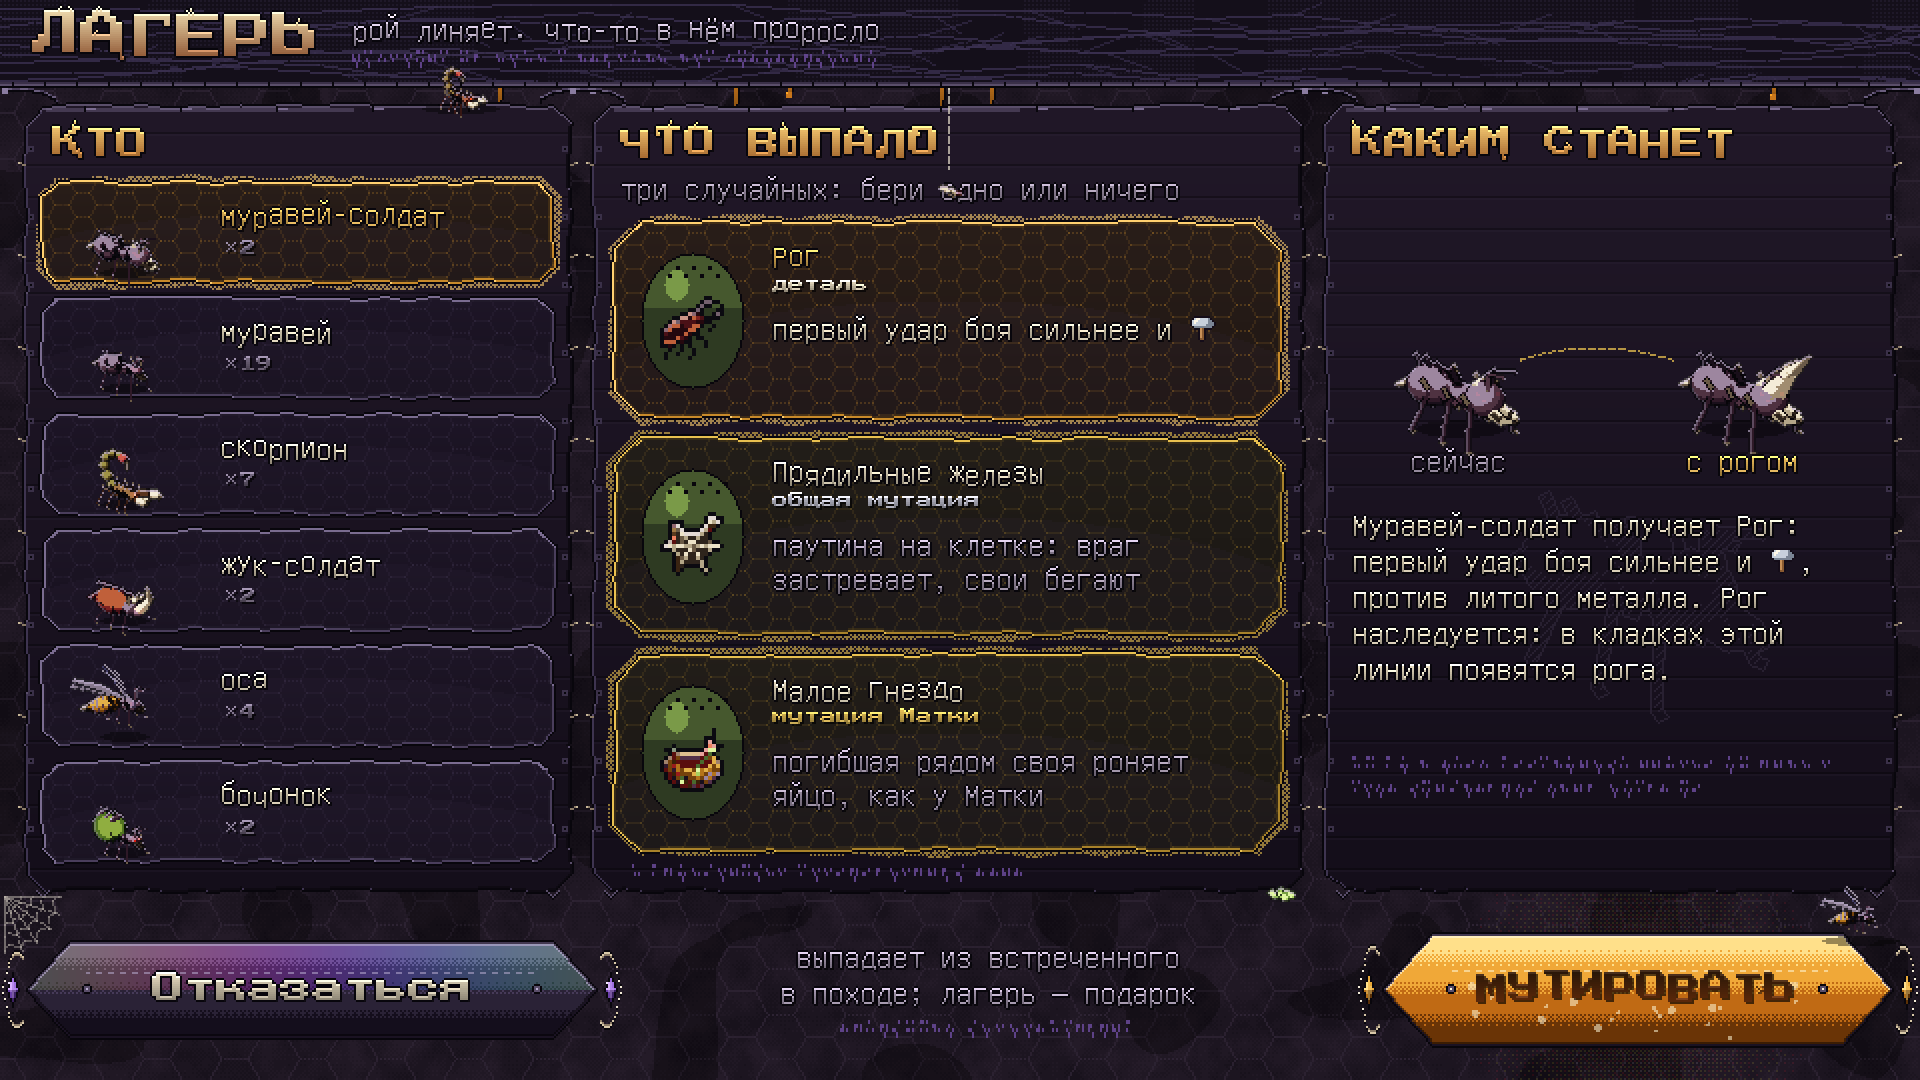
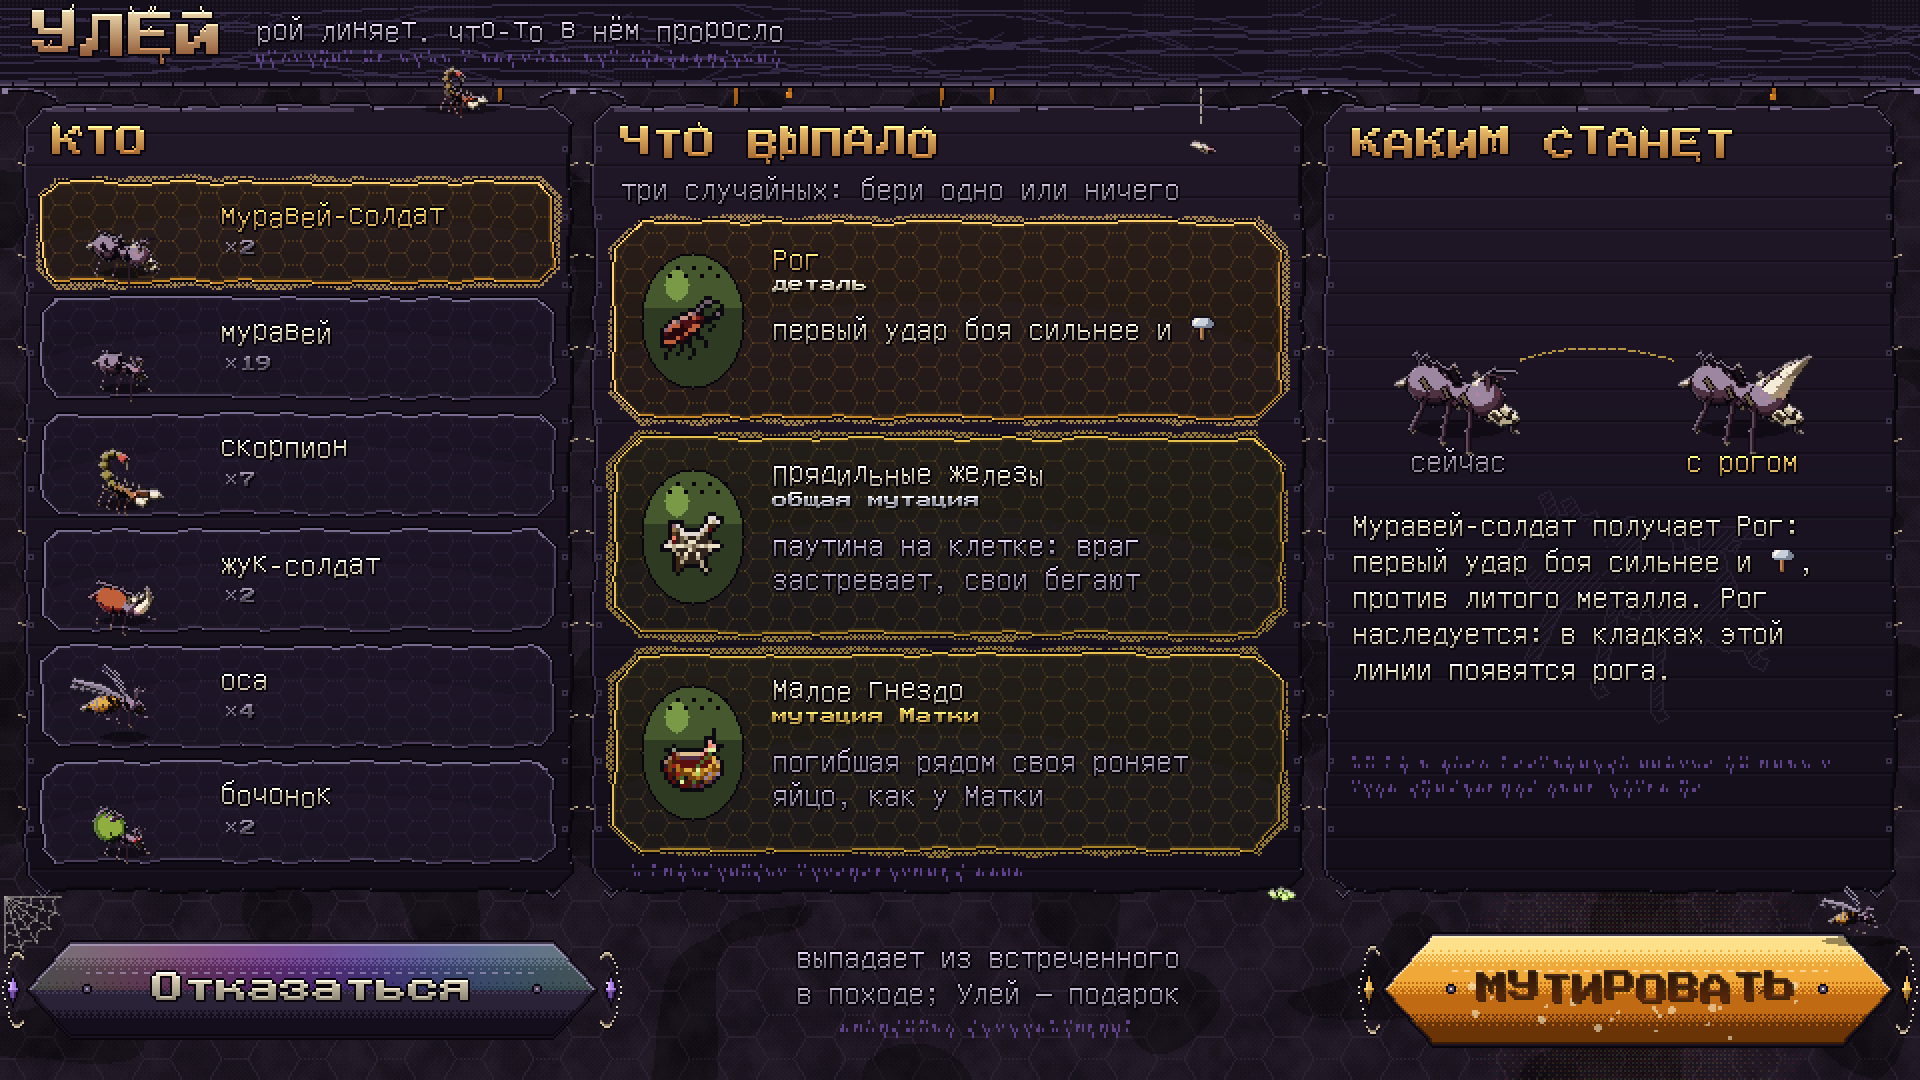
Лагерь роя называется Улей: экран, тексты, концепт
Claude-Session: https://claude.ai/code/session_01Bh6a99SKMjjKSinDnrtssC

diff --git a/tools/sprites/swarm_hud.py b/tools/sprites/swarm_hud.py
@@ -192,7 +192,7 @@ def camp():
     sc = frame_screen(73)
     UI.wing(sc, 0, 0, WW, 44)
     UI.drips(sc, 60, 900, 44, "#b06818", n=6, seed=5)
-    title(sc, "ЛАГЕРЬ", "рой линяет. что-то в нём проросло", seed=21)
+    title(sc, "УЛЕЙ", "рой линяет. что-то в нём проросло", seed=21)
     # who
     UI.plate(sc, 12, 52, 286, 446, antennae=True)
     heading(sc, "КТО", 26, 64, seed=1)
@@ -252,12 +252,12 @@ def camp():
     UI.button(sc, 690, 466, 948, 524, "amber")
     letters(sc, "МУТИРОВАТЬ", 819, 486, "title", 16, col=DARK, col2=(90, 40, 10), outline=False, align="center", jitter=1)
     letters(sc, "выпадает из встреченного", 495, 470, "text", 16, col=MUTED, align="center")
-    letters(sc, "в походе; лагерь — подарок", 495, 488, "text", 16, col=MUTED, align="center")
+    letters(sc, "в походе; Улей — подарок", 495, 488, "text", 16, col=MUTED, align="center")
     scribble(sc, 420, 512, 150, seed=33)
     # the living
     UI.creature(sc, bug(("stinger",), "idle", 1.0, 71), 230, 54)
-    UI.silk(sc, (474, 44), (474, 84), sag=0)
-    UI.creature(sc, larva("idle", 0.8), 478, 98, shadow=False)
+    UI.silk(sc, (600, 44), (600, 62), sag=0)
+    UI.creature(sc, larva("idle", 0.8), 604, 76, shadow=False)
     UI.creature(sc, bug(("wings",), "idle", 1.0, 72), 930, 470)
     UI.creature(sc, clutch(0.9), 640, 448)
     UI.cobweb(sc, 2, 448, 28, quad=(1, 1))

diff --git a/tools/sprites/swarm_screens.py b/tools/sprites/swarm_screens.py
@@ -164,7 +164,7 @@ def camp_screen():
                                    "против литого металла. Деталь наследуется: в кладках этой линии появятся рога.",
                                    f(0, 16), 260 * S)):
         d.text((680 * S, 280 * S + k * 24), ln, font=f(0, 16), fill=INK)
-    d.text(((12 + 300) * S / 2 - d.textlength("Уйти из лагеря", font=f(1, 19)) / 2, 490 * S), "Уйти из лагеря", font=f(1, 19), fill=INK)
+    d.text(((12 + 300) * S / 2 - d.textlength("Уйти из Улья", font=f(1, 19)) / 2, 490 * S), "Уйти из Улья", font=f(1, 19), fill=INK)
     t = "Мутировать"
     d.text(((714 + 948) * S / 2 - d.textlength(t, font=f(1, 19)) / 2, 490 * S), t, font=f(1, 19), fill=UI.DARK)
     t = "Гигант — сюрприз выводка, чужие черты — от съеденных."

diff --git a/tools/sprites/swarm_mut.py b/tools/sprites/swarm_mut.py
@@ -947,7 +947,7 @@ def scene(sc, key, x, by):
         put(sc, bug((), key="fattened", seed=42), x - 44 * F, by)
         arrow_r(sc, x - 20 * F, x, by - 14 * F)
         put(sc, e.lit(leader("Пожиратель", k=0.5, stage=1), (255, 220, 140), 0.1), x + 40 * F, by, 14)
-        return "в лагере на корм — он растёт", T
+        return "в Улье на корм — он растёт", T
     if key == "frenzy":
         put(sc, leader("Пожиратель", "attack", k=0.5), x + 34 * F, by, 14)
         for dx, dy, sd in ((-40, 0, 43), (-20, 8, 44)):

diff --git a/docs/CONCEPT.md b/docs/CONCEPT.md
@@ -18,7 +18,7 @@
 - Выбор класса и лидера → поход из 12–15 боёв, каждый пятый — с боссом, партия на 20–30 минут.
 - Перед каждым боем — выбор из 2–3 противников: видна вся армия врага, её расстановка и награда.
   Это заменяет карту мира.
-- Между боями: награды, лагерь, торговец, случайные события с рискованным выбором
+- Между боями: награды, лагерь (у роя — Улей), торговец, случайные события с рискованным выбором
   («отдать существо за редкий артефакт»).
 
 ## Бой
@@ -1088,7 +1088,7 @@
 | Предсмертный крик | постоянно | погибая, особь роя кричит в разум убийцы: тот получает 1 пси, мимо брони; безмозглый — 1 пси за каждые две смерти. Чем больше рой гибнет, тем дороже это врагу |
 | Захват разума | перезарядка 6 ходов | враг ниже половины здоровья переходит к рою: размер 1–3 — на 5 ходов, 4–5 — на 2 хода; размер 6–7 не переходит, его только оглушает на раунд |
 | Хрупкий мозг | слабость | мало здоровья и мягкое тело; гибель обезглавливает рой |
-| Мыслящая порода | правило похода | в выводке выпадают **пси-мутации** — на пси и страх (см. ниже); чаще у потомков тех, кто стоял в бою рядом с Разумом. В лагере они тоже выпадают |
+| Мыслящая порода | правило похода | в выводке выпадают **пси-мутации** — на пси и страх (см. ниже); чаще у потомков тех, кто стоял в бою рядом с Разумом. В Улье они тоже выпадают |
 
 Развитие: пси-удар на 4 клетки, перезарядка Захвата 4 хода или Помутнение шире — на 3 клетки.
 
@@ -1228,7 +1228,7 @@
   чаще, так первые решения задают направление похода.
 
   ![Развитие лидера](images/swarm_development_screen.png)
-- Мутации всегда случайны. В лагере выпадают три случайных варианта, и одну особь можно изменить
+- Мутации всегда случайны. В Улье выпадают три случайных варианта, и одну особь можно изменить
   одним из них (см. «Выводок»). За поход виден не весь пул, поэтому каждый поход собирается из разного.
 
 **Общий пул:**
@@ -1277,12 +1277,12 @@
 4. «В бой» — когда рой уложился в предел. «Автоотбор» съедает тех, чьи черты реже убивали; не
    нужно потомство — съешь всех новых, это и есть «пропустить».
 
-**Лагерь — подарок, а не магазин.** Выпадают три случайных варианта: детали или мутации (общие или
+**Улей — подарок, а не магазин.** Лагерь роя называется Ульем. В нём выпадают три случайных варианта: детали или мутации (общие или
 своего лидера), уже встречавшиеся в походе. Игрок выбирает, какая особь изменится, и берёт один из трёх —
 или отказывается. Мутации остаются случайными, у игрока только выбор из выпавшего. Гигантизм и чужие
-черты в лагере не выпадают: гигант — сюрприз выводка, чужие черты — от съеденных.
+черты в Улье не выпадают: гигант — сюрприз выводка, чужие черты — от съеденных.
 
-![Лагерь: три случайных варианта](images/swarm_camp.png)
+![Улей: три случайных варианта](images/swarm_camp.png)
 
 **Находки** — чтобы выводок не повторялся. Какая выпадет, зависит от прошедшего боя:
 
